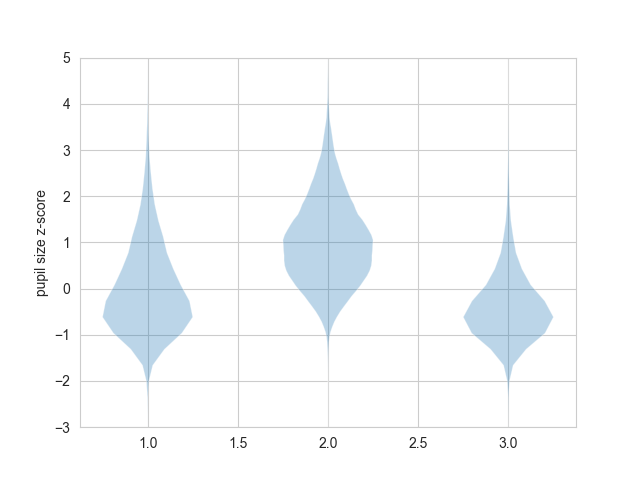
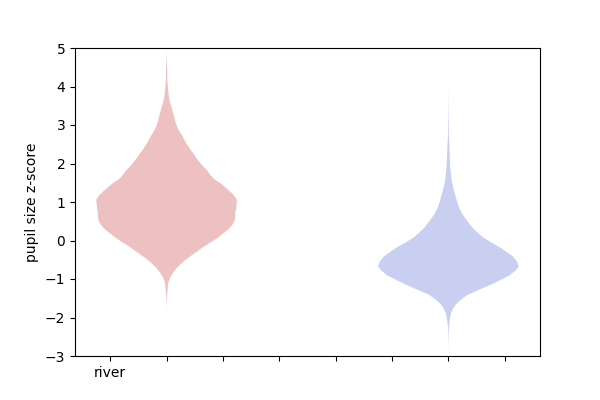
more plot adjustments

diff --git a/analysis/pupil_size/pupil_size.py b/analysis/pupil_size/pupil_size.py
@@ -2,6 +2,7 @@ from itertools import product
 
 import numpy as np
 import scipy
+import matplotlib as mpl
 from matplotlib import pyplot as plt
 import seaborn as sns
 
@@ -121,13 +122,61 @@ def plot_pupil_size():
     plt.savefig('../thesis/2river_vs_street/4pupil_size/pupil_sizes_box.png')
     plt.show()
 
-    # TODO position names
     plt.violinplot(dataset=[pupil_size_total, pupil_size_street, pupil_size_river],
                    showextrema=False)  # , positions=['total', 'street', 'river'])
     plt.ylabel('pupil size z-score')
     plt.ylim((-3, 5))
     plt.savefig('./imgs/pupil_size/pupil_sizes_violin.png')
     plt.savefig('../thesis/2river_vs_street/4pupil_size/pupil_sizes_violin.png')
+    plt.show()
+
+def plot_pupil_size_per_region():
+    df = read_data()
+    df = df[['region', 'pupil_size_z']].dropna(subset='pupil_size_z')
+
+    df = df[df['pupil_size_z'] < 15]
+
+    # fancy pupil size plot (box plot and violin plot)
+    df = df[(df['region'] == 'street') | (df['region'] == 'river')]
+    print(df['region'].value_counts())
+
+    edge_colors = [paper_plot_utils.C0, paper_plot_utils.C1]
+    box_colors = [paper_plot_utils.C0_soft, paper_plot_utils.C1_soft]
+
+    # create boxplot
+    sns.set_style("whitegrid")
+    fig, ax = plt.subplots(figsize=paper_plot_utils.figsize)
+    sns.boxplot(data=df, ax=ax, y="pupil_size_z", x="region", width=0.2, linewidth=1.5,
+                showfliers=False,
+                # flierprops=dict(markersize=2),
+                showmeans=True, meanline=True,
+                boxprops={'zorder': 2})
+
+    # iterate over boxes
+    box_patches = [patch for patch in ax.patches if type(patch) == mpl.patches.PathPatch]
+    if len(box_patches) == 0:
+        box_patches = ax.artists
+    num_patches = len(box_patches)
+    lines_per_boxplot = len(ax.lines) // num_patches
+    for i, patch in enumerate(box_patches):
+        # Set the linecolor on the patch to the facecolor, and set the facecolor to None
+        patch.set_edgecolor('k')  # edge_colors[i])
+        patch.set_facecolor(box_colors[i])
+
+        # Each box has associated Line2D objects (to make the whiskers, fliers, etc.)
+        # Loop over them here, and use the same color as above
+        for line in ax.lines[i * lines_per_boxplot: (i + 1) * lines_per_boxplot]:
+            line.set_color('k')  # edge_colors[i])
+            line.set_mfc('k')  # edge_colors[i])  # facecolor of fliers
+            line.set_mec('k')  # edge_colors[i])  # edgecolor of fliers
+
+    sns.violinplot(data=df, ax=ax, y="pupil_size_z", x="region", size=0.5, scale='width', palette=box_colors, inner=None,
+                   saturation=0.5)
+
+    ax.set_xlabel('')
+    ax.set_ylabel('Pupil size z-score')
+    plt.savefig('./imgs/gaze/fixations/fixations_per_position/fixation_distance_per_region_box.png')
+    plt.savefig('../thesis/2river_vs_street/4pupil_size/pupil_size_per_region_box.png')
     plt.show()
 
 
@@ -247,6 +296,7 @@ def plot_pupil_size_over_score():
 
 
 if __name__ == '__main__':
+    plot_pupil_size_per_region()
     plot_pupil_size()
     ttest_pupil_size_street_river()
     kstest_pupil_size_street_river()

diff --git a/analysis/gaze/blink_rates.py b/analysis/gaze/blink_rates.py
@@ -82,6 +82,49 @@ def plot_blink_rates():
     plt.savefig('../thesis/2river_vs_street/3blink_rate/blink_rates_box.png')
     plt.show()
 
+    # fancy blink rate plot (box plot and violin plot)
+    # TODO
+    df = df[(df['region'] == 'street') | (df['region'] == 'river')]
+
+    edge_colors = [paper_plot_utils.C0, paper_plot_utils.C1]
+    box_colors = [paper_plot_utils.C0_soft, paper_plot_utils.C1_soft]
+
+    # create boxplot
+    sns.set_style("whitegrid")
+    fig, ax = plt.subplots(figsize=paper_plot_utils.figsize)
+    sns.boxplot(data=df, ax=ax, y="pupil_size_z", x="region", width=0.2, linewidth=1.5,
+                showfliers=False,
+                # flierprops=dict(markersize=2),
+                showmeans=True, meanline=True,
+                boxprops={'zorder': 2})
+
+    # iterate over boxes
+    box_patches = [patch for patch in ax.patches if type(patch) == mpl.patches.PathPatch]
+    if len(box_patches) == 0:
+        box_patches = ax.artists
+    num_patches = len(box_patches)
+    lines_per_boxplot = len(ax.lines) // num_patches
+    for i, patch in enumerate(box_patches):
+        # Set the linecolor on the patch to the facecolor, and set the facecolor to None
+        patch.set_edgecolor('k')  # edge_colors[i])
+        patch.set_facecolor(box_colors[i])
+
+        # Each box has associated Line2D objects (to make the whiskers, fliers, etc.)
+        # Loop over them here, and use the same color as above
+        for line in ax.lines[i * lines_per_boxplot: (i + 1) * lines_per_boxplot]:
+            line.set_color('k')  # edge_colors[i])
+            line.set_mfc('k')  # edge_colors[i])  # facecolor of fliers
+            line.set_mec('k')  # edge_colors[i])  # edgecolor of fliers
+
+    sns.violinplot(data=df, ax=ax, y="pupil_size_z", x="region", size=0.5, scale='width', palette=box_colors, inner=None,
+                   saturation=0.5)
+
+    ax.set_xlabel('')
+    ax.set_ylabel('Pupil size z-score')
+    plt.savefig('./imgs/gaze/fixations/fixations_per_position/fixation_distance_per_region_box.png')
+    plt.savefig('../thesis/2river_vs_street/pupil_size_per_region_box.png')
+    plt.show()
+
 
 def ttest_blink_rate_street_river():
     blink_rates = pd.read_csv('../data/blink_rates.csv')

diff --git a/analysis/gaze/fixations.py b/analysis/gaze/fixations.py
@@ -1044,7 +1044,7 @@ def plot_MFD_diff_river_street_over_score():
 
     fig, ax = plt.subplots(figsize=paper_plot_utils.figsize)
     # plt.scatter(x, y, label='data')
-    plt.errorbar(x, y, yerr=sem, fmt='o', markersize=2, label='Data')  # TODO sem or std for errorbar?
+    plt.errorbar(x, y, yerr=sem, fmt='o', markersize=2, label='Data')
     plt.plot(xx, res.intercept + res.slope * xx, 'r', label='Linear regression')
     # plt.fill_between(xx, bounds_min, bounds_max, color='r', alpha=0.25, label='95% ci interval')
     plt.xlim(xlim)
@@ -1057,7 +1057,14 @@ def plot_MFD_diff_river_street_over_score():
     plt.show()
 
 
+def print_n_fixations_per_region():
+    df = load_fixations()
+    print(df['region'].value_counts())
+    print('In total:', df.shape[0])
+
+
 if __name__ == '__main__':
+    print_n_fixations_per_region()
     plot_fixation_heatmap()
     plot_fixations_on_target_per_lane()
     # save_fixations()
